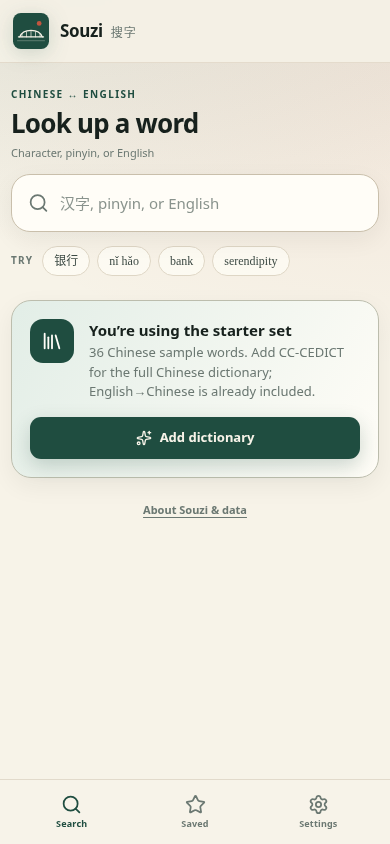
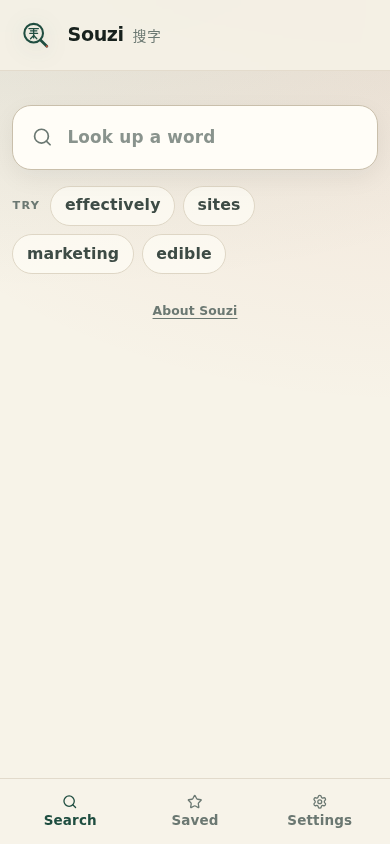
docs: refresh README screenshots with consistent mobile layout

diff --git a/README.md b/README.md
@@ -6,19 +6,30 @@ An offline-first English–Chinese dictionary for web/PWA and Android. It bundle
 
 ## Screens
 
-| Home | Search |
-| --- | --- |
-| ![Souzi home screen](docs/home-desktop.png) | ![Searching for bank](docs/search-desktop.png) |
+All screenshots are from the mobile layout (390×844).
 
-| Entry | Mobile |
-| --- | --- |
-| ![The entry for 银行](docs/entry-desktop.png) | ![Souzi on a phone](docs/home-mobile.png) |
-
-| English search | English entry |
-| --- | --- |
-| ![Searching for hello in both directions](docs/english-search.jpg) | ![The English entry for bank](docs/english-entry.jpg) |
-
-<p align="center"><img src="docs/about.jpg" alt="About Souzi" width="720"></p>
+<table>
+  <tr>
+    <td><img src="docs/home-mobile.png" alt="Home" width="220"></td>
+    <td><img src="docs/english-search.png" alt="English search" width="220"></td>
+    <td><img src="docs/english-entry.png" alt="English entry" width="220"></td>
+  </tr>
+  <tr>
+    <td align="center">Home</td>
+    <td align="center">English search</td>
+    <td align="center">English entry</td>
+  </tr>
+  <tr>
+    <td><img src="docs/settings-mobile.png" alt="Settings" width="220"></td>
+    <td><img src="docs/downloads-mobile.png" alt="Downloads" width="220"></td>
+    <td><img src="docs/about-mobile.png" alt="About" width="220"></td>
+  </tr>
+  <tr>
+    <td align="center">Settings</td>
+    <td align="center">Downloads</td>
+    <td align="center">About</td>
+  </tr>
+</table>
 
 ## What works
 
